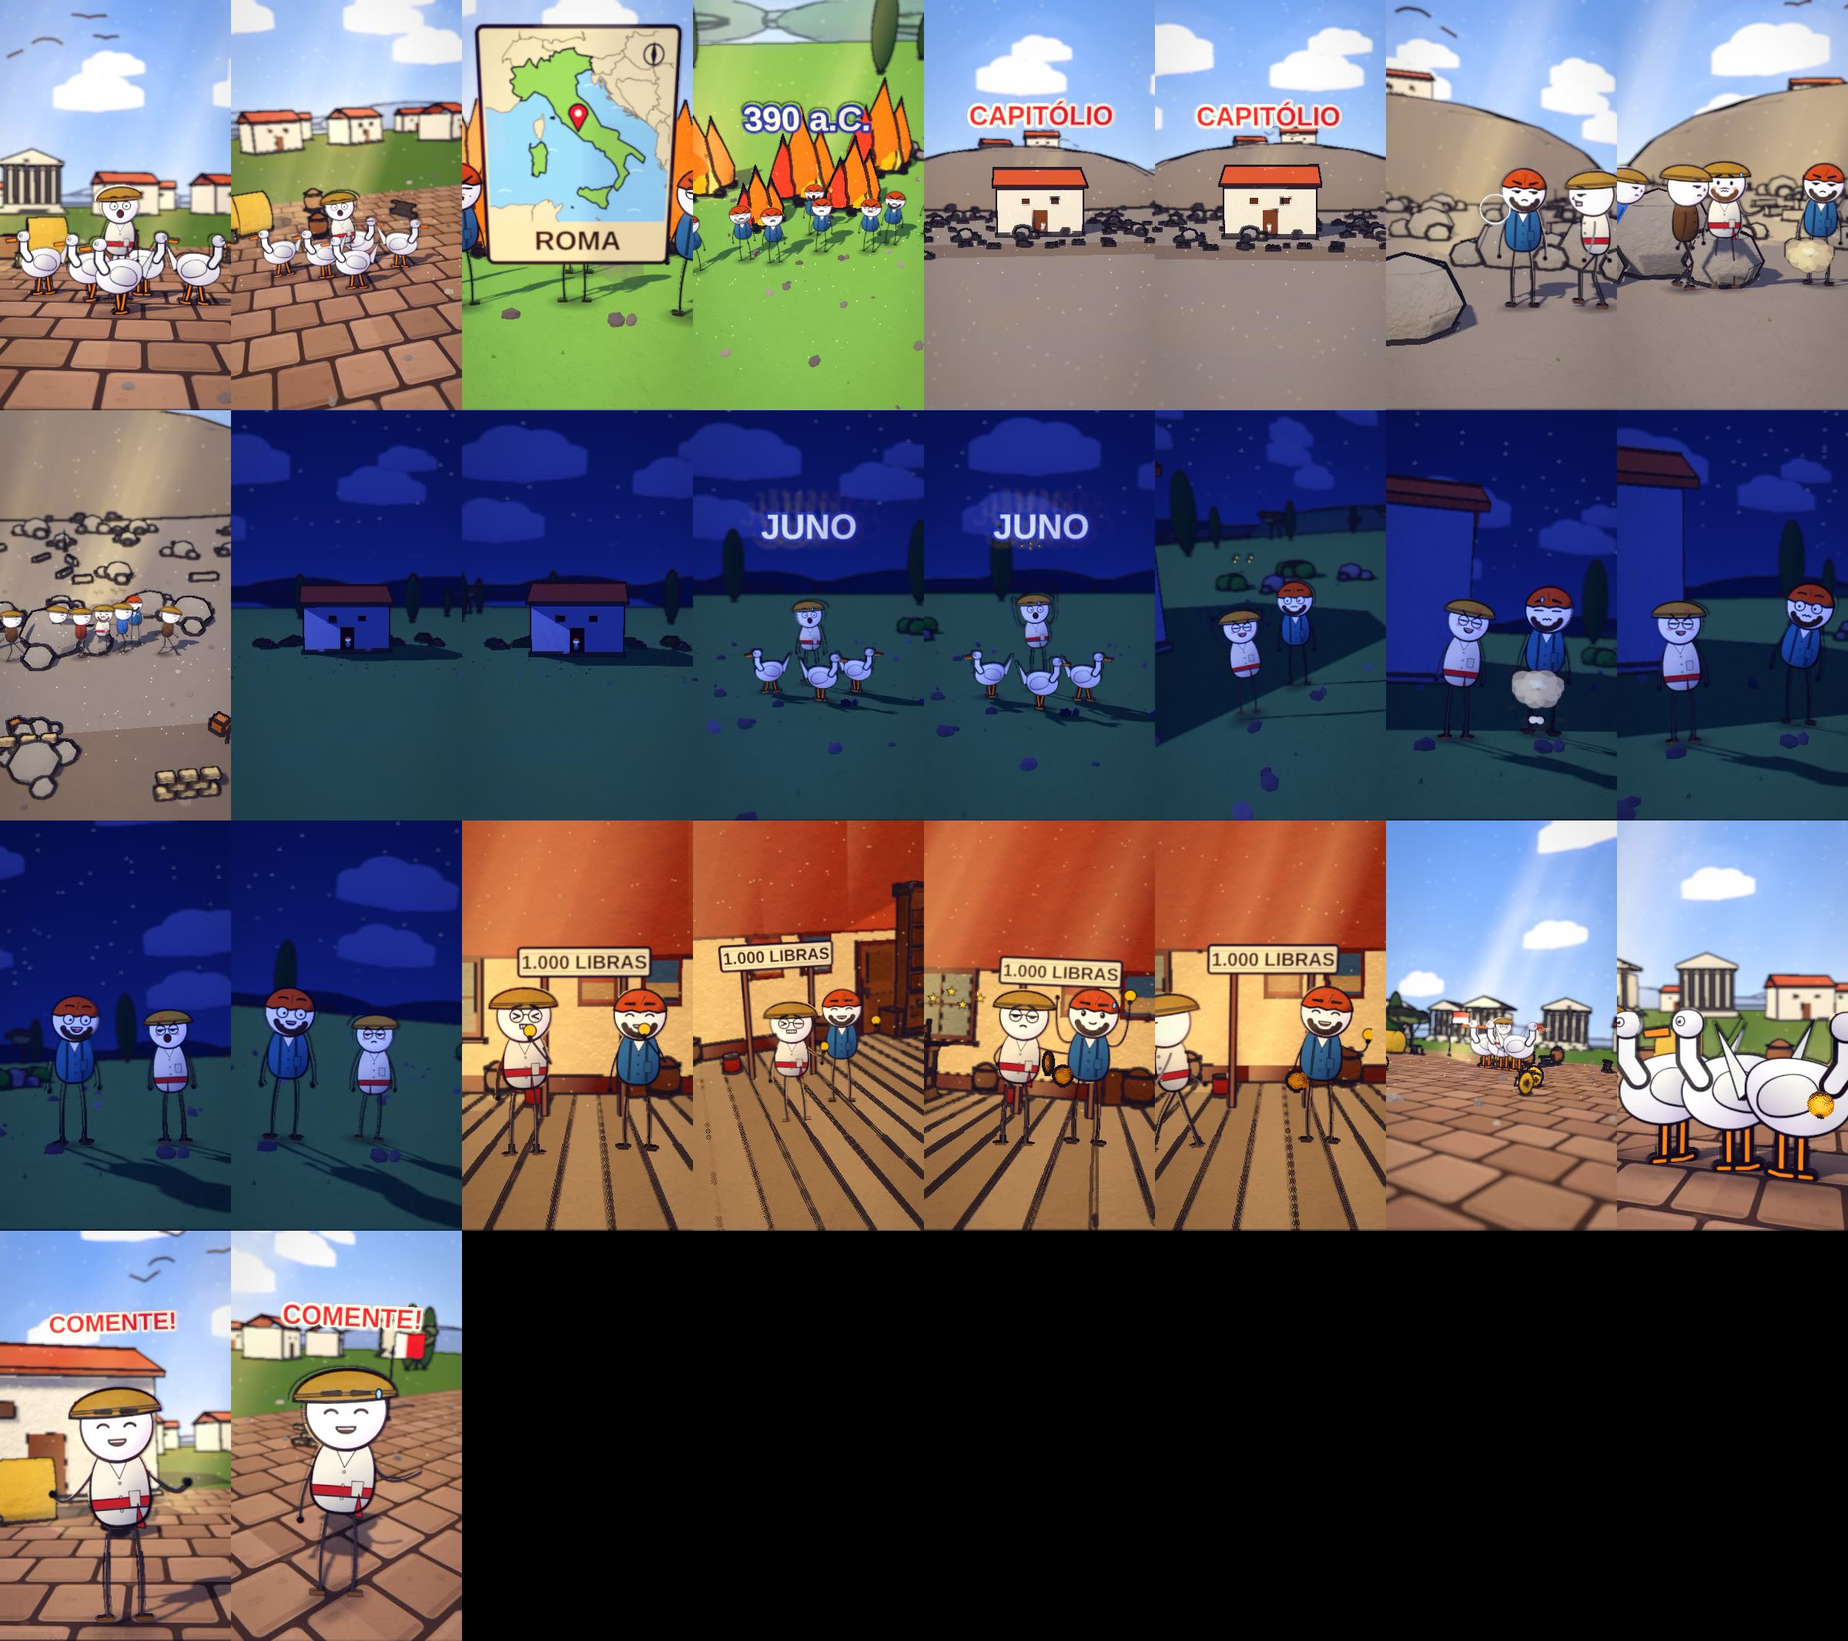
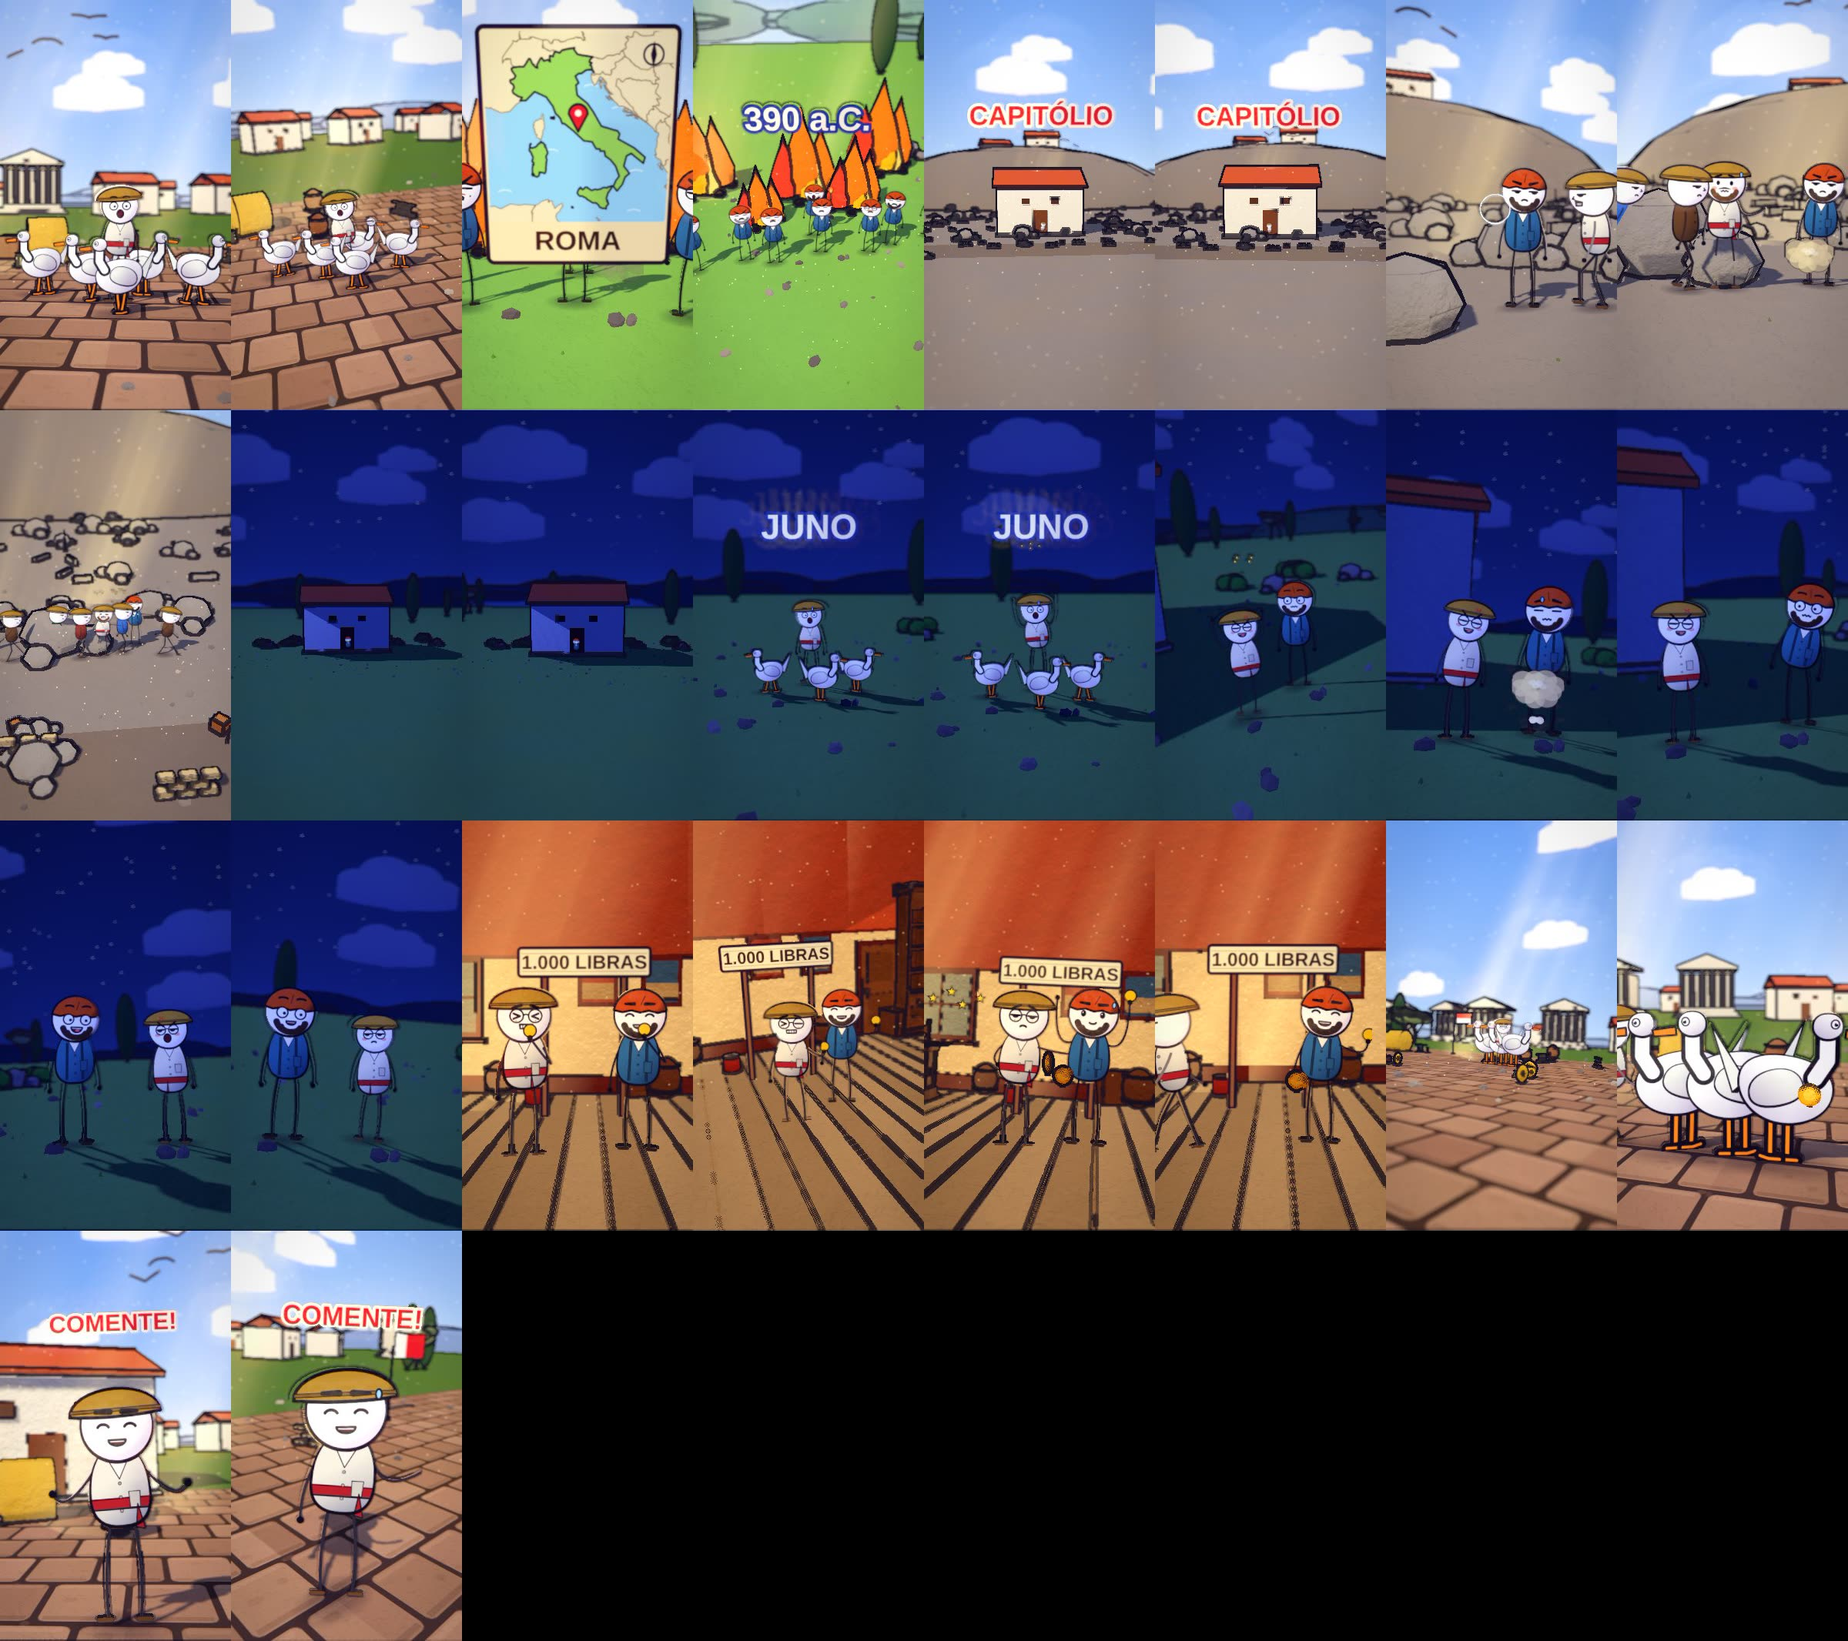
gansos390: refacao da lista unica, storyboard aprovado
Claude-Session: https://claude.ai/code/session_01HE8Dy2XpEMgdYAHCmWZFay

Changed region(s): [[0.75, 0.5882, 1.0, 0.7739]]

diff --git a/ferramenta-shorts/stories/gansos390/spec.js b/ferramenta-shorts/stories/gansos390/spec.js
@@ -22,7 +22,7 @@ const SPEC = {
     S('b6', A[6], A[7] - 1, X, "night", { h: 2.3, d0: 9.8, d1: 8.8, az0: -26, az1: -12, cx: 0.0, cz: 1.2, vary: false, hero: { hero: 'any', frame: 'medium', minH: 0.07, main: 2 }, trans: 'dissolve', actors: [_MA(_MA(pp(X, "MAN", 0, -1.0, 1.3, "angry", { pose: 'talk', inter: { k: 'shove', a: Math.round(A[6] + (A[7] - 1 - (A[6])) * 0.12), b: Math.round(A[6] + (A[7] - 1 - (A[6])) * 0.82), dir: 1, n: 2, ph: 0 } }), { gests: [[WS(88) - 8, WS(88) + 46, 'up']] }), { poses: [[A[6], WS(88), 'sleep']] }), pp(X, "GAU", 0, 1.0, 1.0, "scared", { pose: 'talk', inter: { k: 'stagger', a: Math.round(A[6] + (A[7] - 1 - (A[6])) * 0.2), b: Math.round(A[6] + (A[7] - 1 - (A[6])) * 0.9), dir: -1, n: 2, ph: 3.14 } })], props: [{ asset: "buildings/castle_tower", at: [X + -6.0, -9.5], s: 1.3, drop: false }], fx: [{ k: "dust", a: A[6] + 70, b: A[6] + 96, at: [X + 0.9, DK + 0.12, 1.0], s: 0.75 }, { k: "puff", a: A[6] + 80, b: A[6] + 106, at: [X + 0.9, DK + 0.12, 1.0], s: 0.75 }, { k: "stars", a: WS(88) + 3, b: WS(88) + 30, at: [X + -1.0, DK + 2.6, 1.7], s: 0.6 }] }),
     S('b7', A[7], A[8] - 1, X, "night", { h: 2.3, d0: 9.8, d1: 8.8, az0: 16, az1: 30, hero: { hero: 'any', frame: 'medium', minH: 0.07, main: 2 }, trans: 'dissolve', actors: [pp(X, "GAU", 0, -1.0, 1.3, "scared", { pose: 'talk', inter: { k: 'nod', a: Math.round(A[7] + (A[8] - 1 - (A[7])) * 0.12), b: Math.round(A[7] + (A[8] - 1 - (A[7])) * 0.82), dir: 1, n: 2, ph: 0 } }), pp(X, "MAN", 0, 1.0, 1.0, "angry", { pose: 'talk', inter: { k: 'lean', a: Math.round(A[7] + (A[8] - 1 - (A[7])) * 0.2), b: Math.round(A[7] + (A[8] - 1 - (A[7])) * 0.9), dir: -1, n: 2, ph: 3.14 } })], fx: [{ k: "dust", a: A[7] + 50, b: A[7] + 76, at: [X + 0.9, DK + 0.12, 1.0], s: 0.75 }] }),
     S('b8', A[8], A[9] - 1, X_hall, "study", { h: 2.3, d0: 9.8, d1: 8.8, az0: -6, az1: 2, vary: false, hero: { hero: 'any', frame: 'medium', minH: 0.07, main: 2 }, trans: 'dissolve', actors: [_MA(_MA(pp(X_hall, "ROM", 0, -1.0, 1.3, "sad", { over: { hold: "coin" }, inter: { k: 'step', a: Math.round(A[8] + (A[9] - 1 - (A[8])) * 0.12), b: Math.round(A[8] + (A[9] - 1 - (A[8])) * 0.82), dir: 1, n: 2, ph: 0 } }), { gests: [[WS(121) - 8, Math.max(WS(121) + 14, WS(125) - 5), 'reach'], [WS(125) - 8, Math.max(WS(125) + 14, WS(130) - 5), 'reach']] }), { move: [[X_hall + -10.0, 0.7], WS(130) + 2, WS(130) + 70, 'lin'], walk: 'stroll' }), pp(X_hall, "GAU", 0, 1.0, 1.0, "grin", { over: { hold: "coin" }, inter: { k: 'nod', a: Math.round(A[8] + (A[9] - 1 - (A[8])) * 0.2), b: Math.round(A[8] + (A[9] - 1 - (A[8])) * 0.9), dir: -1, n: 2, ph: 3.14 } })], props: [{ asset: "kit/room_classico_wood", at: [X_hall, 0], s: 1, drop: false }, { asset: "mk/Bookcase_2", at: [X_hall + 7.4, -3.4], s: 2.4, drop: false }, { asset: "mk/Table_Large", at: [X_hall + -6.6, -1.6], s: 2.2, drop: false }, { asset: "mk/Chair_1", at: [X_hall + -4.4, -1.2], s: 2.2, drop: false }, { asset: "mk/Chest_Wood", at: [X_hall + 6.9, 0.6], s: 2.2, drop: false }, { asset: 'kit/coin', a: WS(121) - 2, b: WS(121) + 50, at: [X_hall + 0.25, 1.9], y: (f) => DK + 1.5 + 0.25 * Math.sin(f * 0.2), spinY: 2, s: 0.35, drop: false }, { asset: 'kit/coin', a: Math.max(A[8] + 4, WS(125) - 20), b: A[9] - 1, at: [X_hall + 0.5, 1.8], y: DK + 1.25, s: 0.32, drop: false }], fx: [{ k: 'text', a: A[8], b: A[9] - 1, at: [X_hall + 0.0, DK, -1.3], text: "1.000 LIBRAS", s: 2.625, col: '#3a2416', size: 120, board: true }, { k: "stars", a: WS(121), b: WS(121) + 28, at: [X_hall + -1.0, DK + 0.5, 2.5], s: 1.1 }, { k: "stars", a: WS(125), b: WS(125) + 28, at: [X_hall + -1.0, DK + 0.5, 2.5], s: 1.1 }] }),
-    S('b9', A[9], A[10] - 1, X_medieval, "day", { h: 2.5, d0: 9.0, d1: 8.0, az0: 24, az1: 10, vary: false, hero: { hero: 'any', frame: 'medium', minH: 0.07, main: 1 }, trans: 'dissolve', actors: [_MA(_MA(pp(X_medieval, "ROM", 0, 0.0, 1.3, "smile", { over: { hold: "coin" } }), { gests: [[WS(133) - 8, Math.max(WS(133) + 14, WS(138) - 5), 'reach'], [WS(138) - 8, Math.max(WS(138) + 14, WS(140) - 5), 'reach']] }), { move: [[X_medieval + -9.0, 0.7], WS(140) + 2, WS(140) + 70, 'lin'], walk: 'stroll' }), { bird: "goose", at: [X_medieval + -1.2, 1.2], state: "stand", s: 1.9, flip: false, seed: 1 }, { bird: "goose", at: [X_medieval + 0.0, 1.2], state: "stand", s: 1.9, flip: false, seed: 4 }, { bird: "goose", at: [X_medieval + 1.2, 1.2], state: "stand", s: 1.9, flip: true, seed: 7 }], props: [{ asset: 'kit/coin', a: Math.max(A[9] + 4, WS(138) - 20), b: A[10] - 1, at: [X_medieval + 1.5, 1.8], y: DK + 1.25, s: 0.32, drop: false }], fx: [{ k: "stars", a: WS(138), b: WS(138) + 28, at: [X_medieval + 0.0, DK + 0.5, 2.5], s: 1.1 }] }),
+    S('b9', A[9], A[10] - 1, X_medieval, "day", { h: 2.5, d0: 10.0, d1: 9.0, az0: 24, az1: 10, vary: false, hero: { hero: 'any', frame: 'medium', minH: 0.07, main: 1 }, trans: 'dissolve', actors: [_MA(_MA(pp(X_medieval, "ROM", 0, 0.0, 1.3, "smile", { over: { hold: "coin" } }), { gests: [[WS(133) - 8, Math.max(WS(133) + 14, WS(138) - 5), 'reach'], [WS(138) - 8, Math.max(WS(138) + 14, WS(140) - 5), 'reach']] }), { move: [[X_medieval + -9.0, 0.7], WS(140) + 2, WS(140) + 70, 'lin'], walk: 'stroll' }), { bird: "goose", at: [X_medieval + -1.1, 1.2], state: "stand", s: 1.9, flip: false, seed: 1 }, { bird: "goose", at: [X_medieval + 0.0, 1.2], state: "stand", s: 1.9, flip: false, seed: 4 }, { bird: "goose", at: [X_medieval + 1.1, 1.2], state: "stand", s: 1.9, flip: true, seed: 7 }], props: [{ asset: 'kit/coin', a: Math.max(A[9] + 4, WS(138) - 20), b: A[10] - 1, at: [X_medieval + 1.5, 1.8], y: DK + 1.25, s: 0.32, drop: false }], fx: [{ k: "stars", a: WS(138), b: WS(138) + 28, at: [X_medieval + 0.0, DK + 0.5, 2.5], s: 1.1 }] }),
     S('b10', A[10], A[11] - 1, X_medieval, "day", { h: 2.4, d0: 6.4, d1: 5.6, az0: -32, az1: -18, hero: { hero: 'any', frame: 'medium', minH: 0.07, main: 1 }, trans: 'dissolve', actors: [pp(X_medieval, "ROM", 2, 0.0, 1.3, "grin", { pose: 'talk' })], props: [{ asset: "buildings/castle_tower", at: [X_medieval + -4.8, -11.0], s: 1.05, ry: 0.35, drop: false }], fx: [{ k: 'birds', a: A[10], b: A[11] - 1, at: [X_medieval, DK + 6.0, -30], n: 5, dir: -1, off: 8 }, txt(X_medieval, WS(144, -2), A[11] - 1, "COMENTE!", '#d8282f', '#fff6e0', 4.6, { s: 1.5, up: 0.55 })] })
   ],
 };

diff --git a/ferramenta-shorts/web/story.js b/ferramenta-shorts/web/story.js
@@ -43,7 +43,7 @@ const SPEC = {
     S('b6', A[6], A[7] - 1, X, "night", { h: 2.3, d0: 9.8, d1: 8.8, az0: -26, az1: -12, cx: 0.0, cz: 1.2, vary: false, hero: { hero: 'any', frame: 'medium', minH: 0.07, main: 2 }, trans: 'dissolve', actors: [_MA(_MA(pp(X, "MAN", 0, -1.0, 1.3, "angry", { pose: 'talk', inter: { k: 'shove', a: Math.round(A[6] + (A[7] - 1 - (A[6])) * 0.12), b: Math.round(A[6] + (A[7] - 1 - (A[6])) * 0.82), dir: 1, n: 2, ph: 0 } }), { gests: [[WS(88) - 8, WS(88) + 46, 'up']] }), { poses: [[A[6], WS(88), 'sleep']] }), pp(X, "GAU", 0, 1.0, 1.0, "scared", { pose: 'talk', inter: { k: 'stagger', a: Math.round(A[6] + (A[7] - 1 - (A[6])) * 0.2), b: Math.round(A[6] + (A[7] - 1 - (A[6])) * 0.9), dir: -1, n: 2, ph: 3.14 } })], props: [{ asset: "buildings/castle_tower", at: [X + -6.0, -9.5], s: 1.3, drop: false }], fx: [{ k: "dust", a: A[6] + 70, b: A[6] + 96, at: [X + 0.9, DK + 0.12, 1.0], s: 0.75 }, { k: "puff", a: A[6] + 80, b: A[6] + 106, at: [X + 0.9, DK + 0.12, 1.0], s: 0.75 }, { k: "stars", a: WS(88) + 3, b: WS(88) + 30, at: [X + -1.0, DK + 2.6, 1.7], s: 0.6 }] }),
     S('b7', A[7], A[8] - 1, X, "night", { h: 2.3, d0: 9.8, d1: 8.8, az0: 16, az1: 30, hero: { hero: 'any', frame: 'medium', minH: 0.07, main: 2 }, trans: 'dissolve', actors: [pp(X, "GAU", 0, -1.0, 1.3, "scared", { pose: 'talk', inter: { k: 'nod', a: Math.round(A[7] + (A[8] - 1 - (A[7])) * 0.12), b: Math.round(A[7] + (A[8] - 1 - (A[7])) * 0.82), dir: 1, n: 2, ph: 0 } }), pp(X, "MAN", 0, 1.0, 1.0, "angry", { pose: 'talk', inter: { k: 'lean', a: Math.round(A[7] + (A[8] - 1 - (A[7])) * 0.2), b: Math.round(A[7] + (A[8] - 1 - (A[7])) * 0.9), dir: -1, n: 2, ph: 3.14 } })], fx: [{ k: "dust", a: A[7] + 50, b: A[7] + 76, at: [X + 0.9, DK + 0.12, 1.0], s: 0.75 }] }),
     S('b8', A[8], A[9] - 1, X_hall, "study", { h: 2.3, d0: 9.8, d1: 8.8, az0: -6, az1: 2, vary: false, hero: { hero: 'any', frame: 'medium', minH: 0.07, main: 2 }, trans: 'dissolve', actors: [_MA(_MA(pp(X_hall, "ROM", 0, -1.0, 1.3, "sad", { over: { hold: "coin" }, inter: { k: 'step', a: Math.round(A[8] + (A[9] - 1 - (A[8])) * 0.12), b: Math.round(A[8] + (A[9] - 1 - (A[8])) * 0.82), dir: 1, n: 2, ph: 0 } }), { gests: [[WS(121) - 8, Math.max(WS(121) + 14, WS(125) - 5), 'reach'], [WS(125) - 8, Math.max(WS(125) + 14, WS(130) - 5), 'reach']] }), { move: [[X_hall + -10.0, 0.7], WS(130) + 2, WS(130) + 70, 'lin'], walk: 'stroll' }), pp(X_hall, "GAU", 0, 1.0, 1.0, "grin", { over: { hold: "coin" }, inter: { k: 'nod', a: Math.round(A[8] + (A[9] - 1 - (A[8])) * 0.2), b: Math.round(A[8] + (A[9] - 1 - (A[8])) * 0.9), dir: -1, n: 2, ph: 3.14 } })], props: [{ asset: "kit/room_classico_wood", at: [X_hall, 0], s: 1, drop: false }, { asset: "mk/Bookcase_2", at: [X_hall + 7.4, -3.4], s: 2.4, drop: false }, { asset: "mk/Table_Large", at: [X_hall + -6.6, -1.6], s: 2.2, drop: false }, { asset: "mk/Chair_1", at: [X_hall + -4.4, -1.2], s: 2.2, drop: false }, { asset: "mk/Chest_Wood", at: [X_hall + 6.9, 0.6], s: 2.2, drop: false }, { asset: 'kit/coin', a: WS(121) - 2, b: WS(121) + 50, at: [X_hall + 0.25, 1.9], y: (f) => DK + 1.5 + 0.25 * Math.sin(f * 0.2), spinY: 2, s: 0.35, drop: false }, { asset: 'kit/coin', a: Math.max(A[8] + 4, WS(125) - 20), b: A[9] - 1, at: [X_hall + 0.5, 1.8], y: DK + 1.25, s: 0.32, drop: false }], fx: [{ k: 'text', a: A[8], b: A[9] - 1, at: [X_hall + 0.0, DK, -1.3], text: "1.000 LIBRAS", s: 2.625, col: '#3a2416', size: 120, board: true }, { k: "stars", a: WS(121), b: WS(121) + 28, at: [X_hall + -1.0, DK + 0.5, 2.5], s: 1.1 }, { k: "stars", a: WS(125), b: WS(125) + 28, at: [X_hall + -1.0, DK + 0.5, 2.5], s: 1.1 }] }),
-    S('b9', A[9], A[10] - 1, X_medieval, "day", { h: 2.5, d0: 9.0, d1: 8.0, az0: 24, az1: 10, vary: false, hero: { hero: 'any', frame: 'medium', minH: 0.07, main: 1 }, trans: 'dissolve', actors: [_MA(_MA(pp(X_medieval, "ROM", 0, 0.0, 1.3, "smile", { over: { hold: "coin" } }), { gests: [[WS(133) - 8, Math.max(WS(133) + 14, WS(138) - 5), 'reach'], [WS(138) - 8, Math.max(WS(138) + 14, WS(140) - 5), 'reach']] }), { move: [[X_medieval + -9.0, 0.7], WS(140) + 2, WS(140) + 70, 'lin'], walk: 'stroll' }), { bird: "goose", at: [X_medieval + -1.2, 1.2], state: "stand", s: 1.9, flip: false, seed: 1 }, { bird: "goose", at: [X_medieval + 0.0, 1.2], state: "stand", s: 1.9, flip: false, seed: 4 }, { bird: "goose", at: [X_medieval + 1.2, 1.2], state: "stand", s: 1.9, flip: true, seed: 7 }], props: [{ asset: 'kit/coin', a: Math.max(A[9] + 4, WS(138) - 20), b: A[10] - 1, at: [X_medieval + 1.5, 1.8], y: DK + 1.25, s: 0.32, drop: false }], fx: [{ k: "stars", a: WS(138), b: WS(138) + 28, at: [X_medieval + 0.0, DK + 0.5, 2.5], s: 1.1 }] }),
+    S('b9', A[9], A[10] - 1, X_medieval, "day", { h: 2.5, d0: 10.0, d1: 9.0, az0: 24, az1: 10, vary: false, hero: { hero: 'any', frame: 'medium', minH: 0.07, main: 1 }, trans: 'dissolve', actors: [_MA(_MA(pp(X_medieval, "ROM", 0, 0.0, 1.3, "smile", { over: { hold: "coin" } }), { gests: [[WS(133) - 8, Math.max(WS(133) + 14, WS(138) - 5), 'reach'], [WS(138) - 8, Math.max(WS(138) + 14, WS(140) - 5), 'reach']] }), { move: [[X_medieval + -9.0, 0.7], WS(140) + 2, WS(140) + 70, 'lin'], walk: 'stroll' }), { bird: "goose", at: [X_medieval + -1.1, 1.2], state: "stand", s: 1.9, flip: false, seed: 1 }, { bird: "goose", at: [X_medieval + 0.0, 1.2], state: "stand", s: 1.9, flip: false, seed: 4 }, { bird: "goose", at: [X_medieval + 1.1, 1.2], state: "stand", s: 1.9, flip: true, seed: 7 }], props: [{ asset: 'kit/coin', a: Math.max(A[9] + 4, WS(138) - 20), b: A[10] - 1, at: [X_medieval + 1.5, 1.8], y: DK + 1.25, s: 0.32, drop: false }], fx: [{ k: "stars", a: WS(138), b: WS(138) + 28, at: [X_medieval + 0.0, DK + 0.5, 2.5], s: 1.1 }] }),
     S('b10', A[10], A[11] - 1, X_medieval, "day", { h: 2.4, d0: 6.4, d1: 5.6, az0: -32, az1: -18, hero: { hero: 'any', frame: 'medium', minH: 0.07, main: 1 }, trans: 'dissolve', actors: [pp(X_medieval, "ROM", 2, 0.0, 1.3, "grin", { pose: 'talk' })], props: [{ asset: "buildings/castle_tower", at: [X_medieval + -4.8, -11.0], s: 1.05, ry: 0.35, drop: false }], fx: [{ k: 'birds', a: A[10], b: A[11] - 1, at: [X_medieval, DK + 6.0, -30], n: 5, dir: -1, off: 8 }, txt(X_medieval, WS(144, -2), A[11] - 1, "COMENTE!", '#d8282f', '#fff6e0', 4.6, { s: 1.5, up: 0.55 })] })
   ],
 };

diff --git a/ferramenta-shorts/stories/gansos390/revisao_storyboard.md b/ferramenta-shorts/stories/gansos390/revisao_storyboard.md
@@ -4,9 +4,9 @@ b0: CORRIGIDO - um bando de gansos barulhentos salvou Roma numa so noite: antes 
 b1: OK - em trezentos e noventa antes de Cristo os gauleses de Breno tomaram Roma e queimaram quase tudo: mapa de Roma e gauleses azuis de cabelo ruivo diante de chamas, com o texto 390 a.C.
 b2: OK - os romanos que sobraram se trancaram no Capitolio, uma colina fortificada: tres romanos de elmo diante da casa de pedra e do texto CAPITOLIO, com pedras da colina.
 b3: OK - os gauleses cercaram a colina e a fome apertou os dois lados: romano e gaules ruivo de azul lado a lado na colina de pedras, com fardos de palha.
-b4: CORRIGIDO - numa noite sem lua eles chegaram em silencio ao pe da muralha e os guardas nao ouviram nada: texto ajustado ao que se ve -> gaules azul chegando ao pe da muralha escura de noite, ninguem cortado.
+b4: CORRIGIDO - numa noite sem lua eles chegaram em silencio ao pe da muralha e os guardas nao ouviram nada: antes a camera colada na parede -> agora plano aberto com a torre inteira ao fundo, de noite, gauleses pequenos ao pe dela.
 b5: CORRIGIDO - acontece que os gansos sagrados da deusa Juno ouviram e comecaram a gritar: os gansos saiam cortados da tela -> agora tres gansos juntos diante do romano assustado e o texto JUNO, de noite.
-b6: CORRIGIDO - o barulho acordou o soldado Marco Manlio que foi ate a muralha e impediu a subida dos gauleses: camera aproximada (12 m) com Manlio e o gaules diante da muralha de noite, ninguem cortado.
-b7: CORRIGIDO - os gauleses se afastaram mas mantiveram o cerco: texto sem acao de fuga -> plano medio com o gaules tombando diante de Manlio, muralha atras, de noite.
+b6: CORRIGIDO - o barulho acordou o soldado Marco Manlio que foi ate a muralha e impediu a subida dos gauleses: antes Manlio nao aparecia -> agora Manlio de elmo e o gaules assustado juntos, de noite, com poeira do empurrao.
+b7: CORRIGIDO - os gauleses se afastaram mas mantiveram o cerco: antes a parede azul cobria a tela -> agora so os dois personagens de noite, sem torre cobrindo.
 b8: OK - no fim depois de sete meses com fome Roma pagou mil libras de ouro e os gauleses foram embora: romano de tunica clara e gaules ruivo com moeda diante da placa 1.000 LIBRAS.
-b9: CORRIGIDO - os gansos salvaram a colina mas o ouro foi embora do mesmo jeito: antes um ganso minusculo -> agora quatro gansos grandes no centro com o templo e as casas de Roma ao fundo, ninguem cortado.
+b9: CORRIGIDO - os gansos salvaram a colina mas o ouro foi embora do mesmo jeito: antes gansos minusculos -> agora tres gansos grandes na frente com moeda, templo e casas de Roma ao fundo.

diff --git a/ferramenta-shorts/stories/gansos390/lista_revisao.md b/ferramenta-shorts/stories/gansos390/lista_revisao.md
@@ -3,7 +3,7 @@
 Regra: olhar o storyboard/frase_a_frase INTEIRO e completar esta lista toda ANTES de devolver. Quem refaz corrige todos os itens de uma vez.
 
 ## Achados automaticos (ferramenta)
-1. b9~1: personagem CORTADO na borda do quadro (boneco grande saindo da tela)
+- nenhum
 
 ## Achados do olho (uma linha por frase: OK ou DEFEITO + o que fazer)
 - f0 "Um bando de gansos barulhentos salvou Roma numa só noite.": 

diff --git a/ferramenta-shorts/stories/gansos390/autocorrecoes.md b/ferramenta-shorts/stories/gansos390/autocorrecoes.md
@@ -68,3 +68,6 @@
 
 ## 24/11 17:46 autocorrecao de visibilidade
 - b9: ja corrigida 3 vezes, personagem CORTADO na borda do quadro (boneco grande saindo da tela) -> fica para o olho
+
+## 24/11 17:46 autocorrecao de visibilidade
+- b9: ja corrigida 3 vezes, personagem CORTADO na borda do quadro (boneco grande saindo da tela) -> fica para o olho
